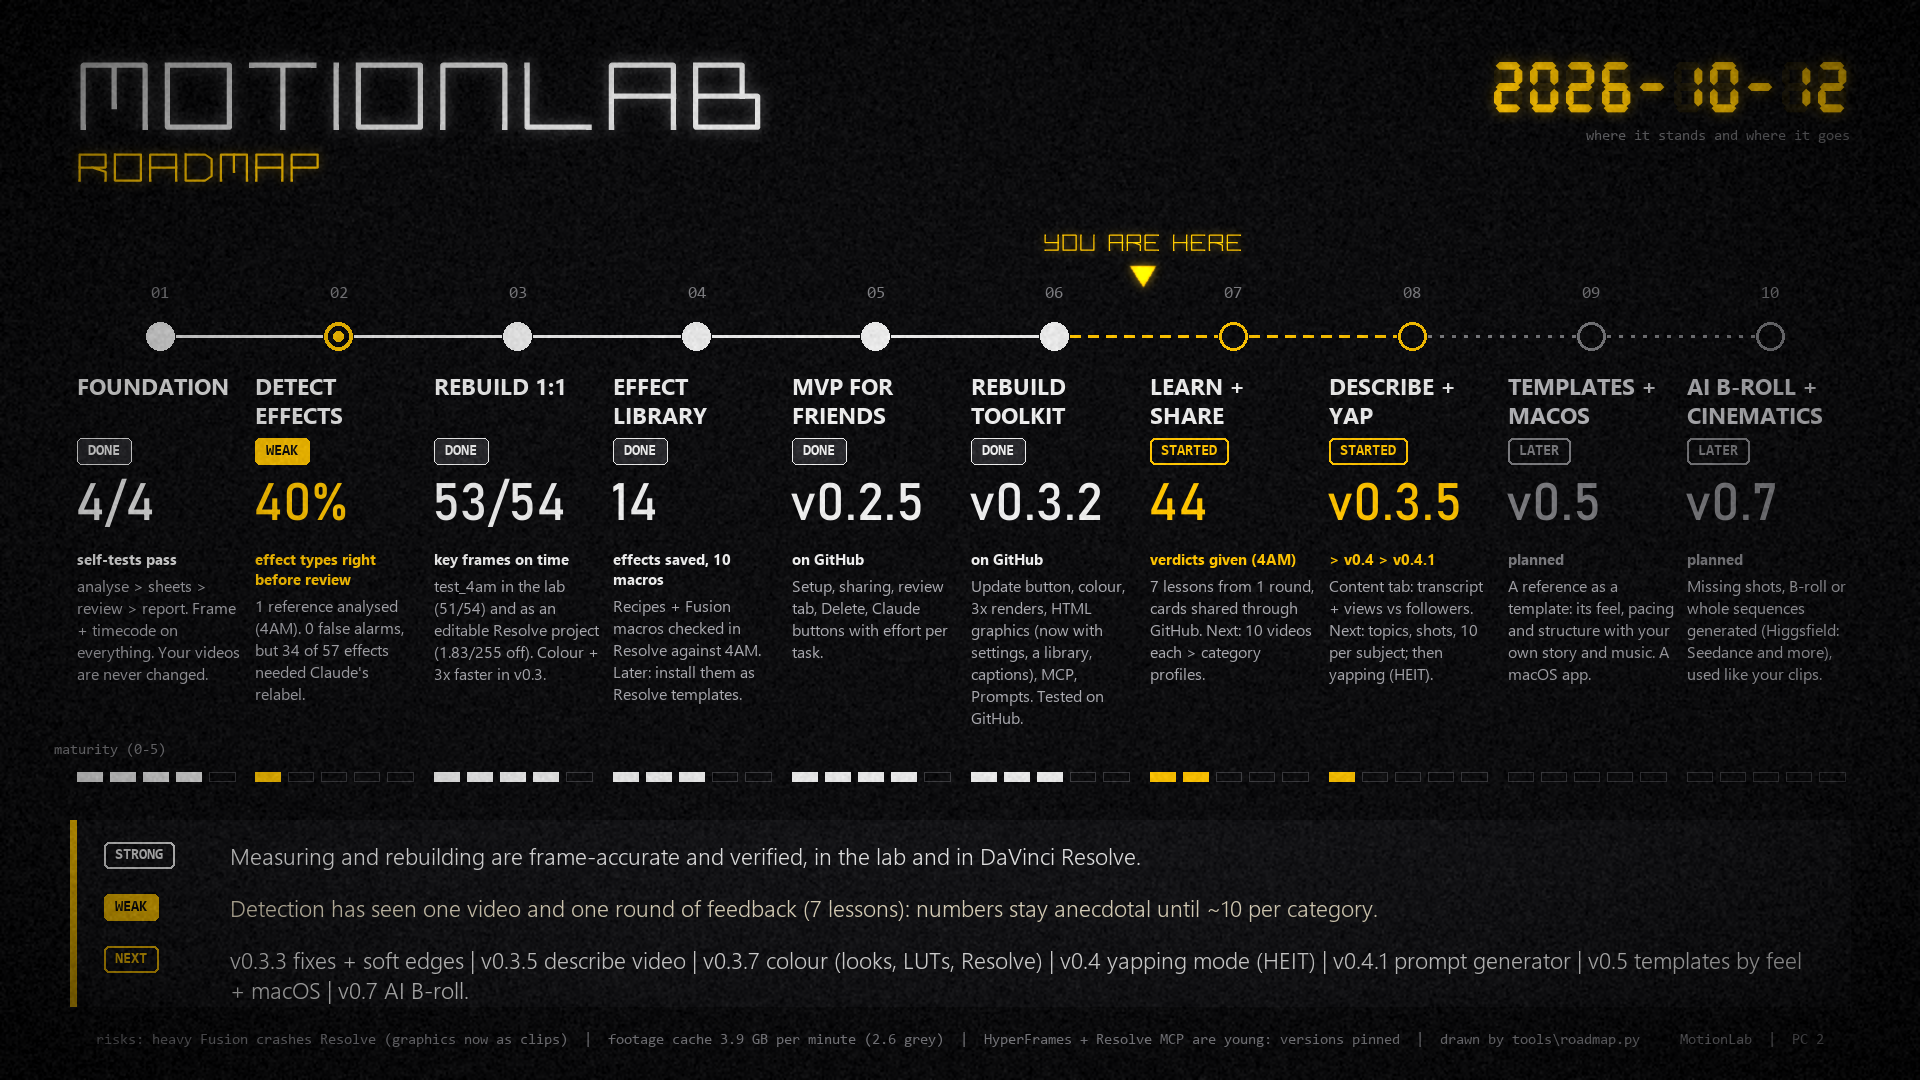
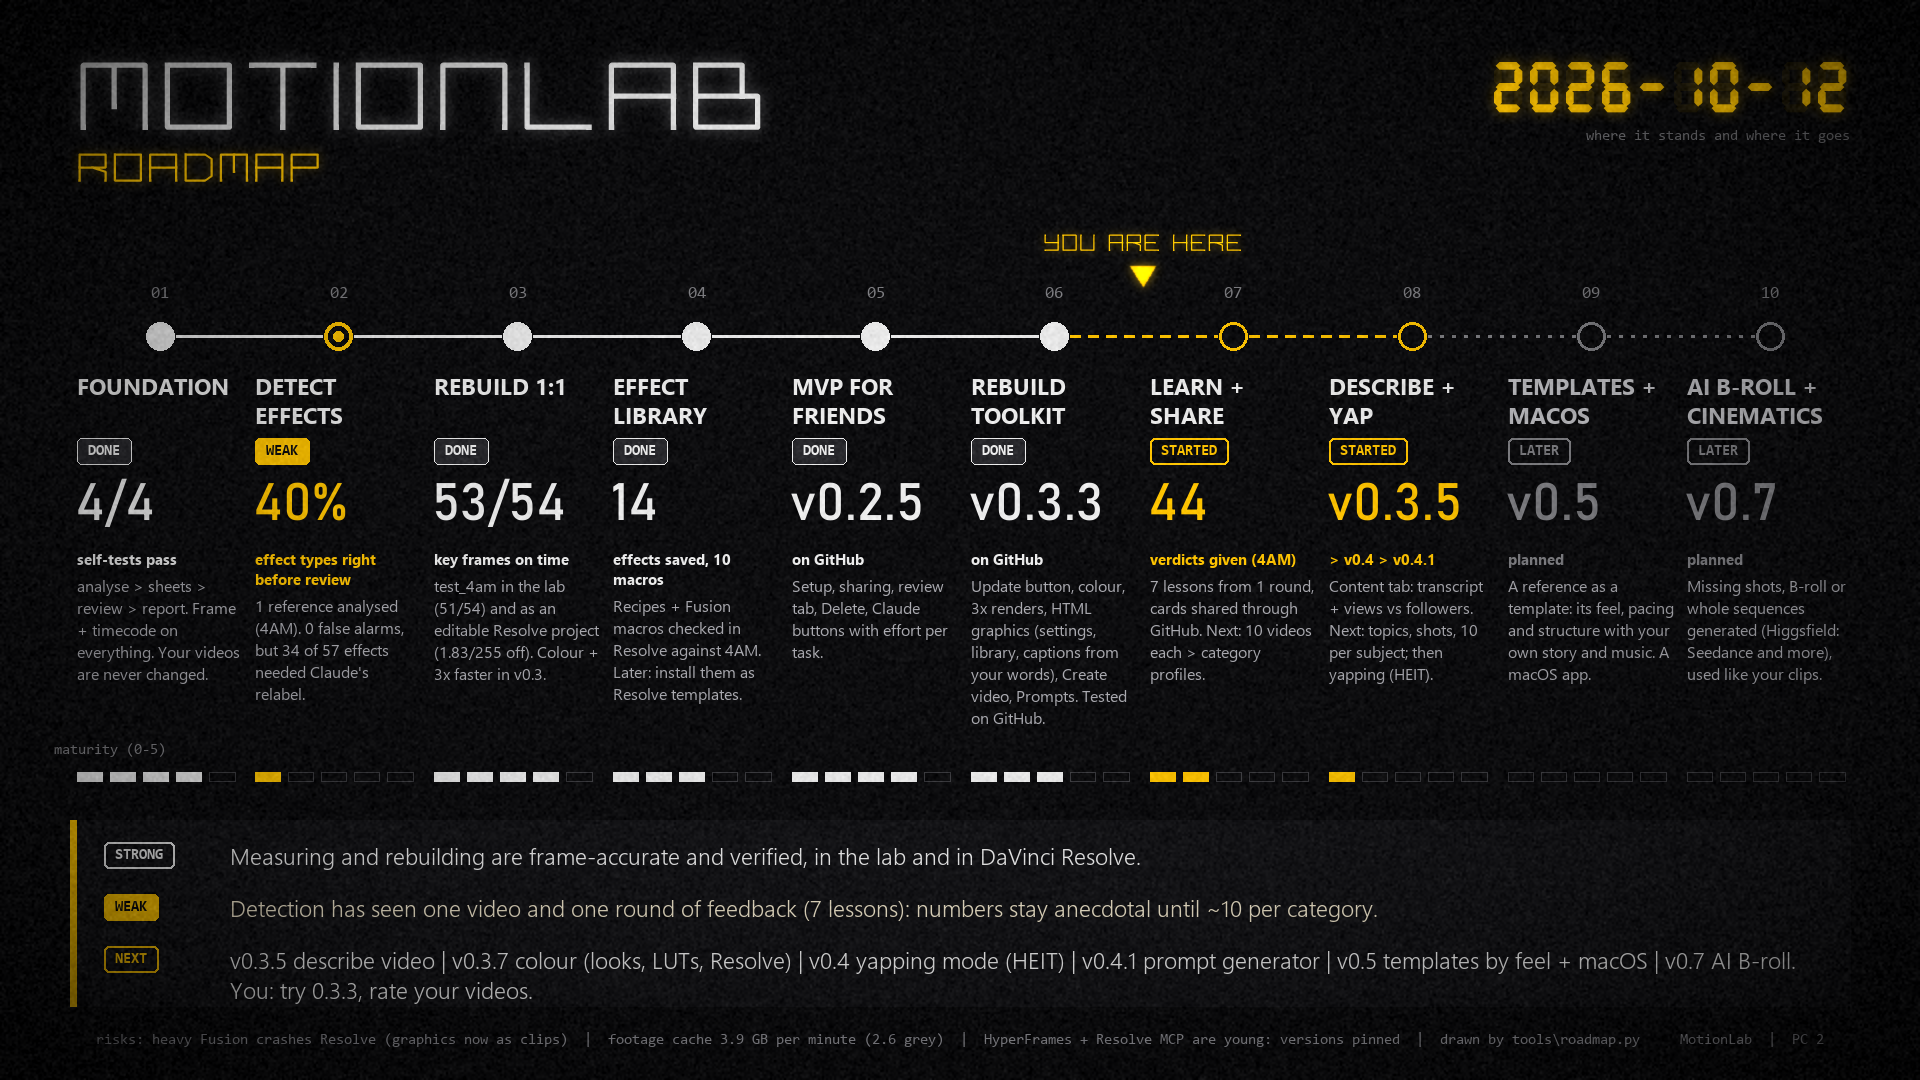
MotionLab 0.3.3: fixes, Create video, captions from your own words, a livelier app
CHANGELOG 0.3.3 = everything since 0.3.2: speech to text (23e93b6), the talking-head graphics pack (f590933),
odd titles (d95fbf4), downloads + Add prompts (2c14713), the app batch (c381ec8). __version__ 0.3.3 (API_LEVEL 9
since c381ec8). plans.md: the 0.3.3 section is out (released), its open download items carry over to 0.3.5, a
structure per purpose goes to 0.4.1; README status, roadmap redrawn.

Claude-Session: https://claude.ai/code/session_011AokhQ9fRekBE9LX8Mo4QJ

Changed region(s): [[0.125, 0.8861, 0.9375, 0.9472], [0.5, 0.5806, 0.5938, 0.6722], [0.5625, 0.4583, 0.5938, 0.4889]]

diff --git a/tools/roadmap.py b/tools/roadmap.py
@@ -37,9 +37,9 @@ STAGES = [
      "Recipes + Fusion macros checked in Resolve against 4AM. Later: install them as Resolve templates."),
     ("MVP for friends", "DONE", 4, "v0.2.5", "on GitHub",
      "Setup, sharing, review tab, Delete, Claude buttons with effort per task."),
-    ("Rebuild toolkit", "DONE", 3, "v0.3.2", "on GitHub",
-     "Update button, colour, 3x renders, HTML graphics (now with settings, a library, captions), MCP, Prompts. "
-     "Tested on GitHub."),
+    ("Rebuild toolkit", "DONE", 3, "v0.3.3", "on GitHub",
+     "Update button, colour, 3x renders, HTML graphics (settings, library, captions from your words), Create video, "
+     "Prompts. Tested on GitHub."),
     ("Learn + share", "STARTED", 2, "44", "verdicts given (4AM)",
      "7 lessons from 1 round, cards shared through GitHub. Next: 10 videos each > category profiles."),
     ("Describe + yap", "STARTED", 1, "v0.3.5", "> v0.4 > v0.4.1",
@@ -53,8 +53,8 @@ VERDICT = [
     ("STRONG", "Measuring and rebuilding are frame-accurate and verified, in the lab and in DaVinci Resolve."),
     ("WEAK", "Detection has seen one video and one round of feedback (7 lessons): numbers stay anecdotal until ~10 "
              "per category."),
-    ("NEXT", "v0.3.3 fixes + soft edges  |  v0.3.5 describe video  |  v0.3.7 colour (looks, LUTs, Resolve)  |  v0.4 "
-             "yapping mode (HEIT)  |  v0.4.1 prompt generator  |  v0.5 templates by feel + macOS  |  v0.7 AI B-roll."),
+    ("NEXT", "v0.3.5 describe video  |  v0.3.7 colour (looks, LUTs, Resolve)  |  v0.4 yapping mode (HEIT)  |  v0.4.1 "
+             "prompt generator  |  v0.5 templates by feel + macOS  |  v0.7 AI B-roll.  You: try 0.3.3, rate your videos."),
 ]
 FOOTER = ("risks: heavy Fusion crashes Resolve (graphics now as clips)  |  footage cache 3.9 GB per minute (2.6 grey)  "
           "|  HyperFrames + Resolve MCP are young: versions pinned  |  drawn by tools\\roadmap.py")

diff --git a/tools/motionlab/__init__.py b/tools/motionlab/__init__.py
@@ -1,2 +1,2 @@
 """MotionLab analysis package (see tools/analyze.py for the entry point)."""
-__version__ = "0.3.2"
+__version__ = "0.3.3"

diff --git a/docs/plans.md b/docs/plans.md
@@ -70,6 +70,10 @@ prompts we have given and you have analysed structurally so we can generate good
   - **Filled by the analyses**: the first 3 s of every analysed talking video become hook examples, its HEIT
     structure a script example (0.3.5 / 0.4), with the link and frame + timecode.
   - **Sharing** your own prompts and ratings through *Knowledge > Share* (text); creators' prompts stay on the PC.
+  - **A structure per purpose** (2026-10-12: "a vlog prompt differs from a talking head, SFX, transitions..."):
+    0.3.3 gave prompts their purposes (tags) and videos a "how did it turn out?" per part (`build\outcome.json`,
+    shown on the prompt as "Used in"); learn from those answers which structure works per purpose - needs a few
+    made videos rated first.
 - **Needs**: your prompts (the Prompts page or pasted in the chat).
 
 ## 0.4.0 - planned - Yapping mode: the yap-maxing framework
@@ -113,7 +117,7 @@ talking-head creators AND edit the user's own recording that way.)
   the extras' numbers on them; (3) the yapping detectors + self-tests; (4) brief + the edit of your own recording.
 - **Needs first**: 0.3.5 (describe video, incl. the words of your own recordings for captions).
 - **Started 2026-10-12** (the user asked for "minimal motion graphics for a good content creator talking head
-  video"; not released): `tools\overlays\examples\talking-head-pack` - progress bar, hook title, number pop-ups
+  video"; released in 0.3.3): `tools\overlays\examples\talking-head-pack` - progress bar, hook title, number pop-ups
   (a counter for numbers that count up), a numbered list built point by point, an end card; the look = settings
   (accent, text colour, font, size, height on screen, progress bar, panel opacity), WHAT shows WHEN =
   `assets\beats.js` (texts + frames, written from the transcript - Claude's part in yapping mode).
@@ -175,7 +179,7 @@ right - base with a prompt dropped a whole paragraph); Parakeet (HyperFrames, `m
 5 s here, ~20 CPU-seconds, 1.15 GB RAM, 25 European languages, no names prompt) 26.1 %. HyperFrames' whisper
 engine needs whisper.cpp built by hand on Windows - out. Word starts agree within 0.02-0.12 s (median) between
 engines. Names are what every engine gets wrong without help.
-**Decided + built 2026-10-12** (the user picked faster-whisper small, base as the light option; not released):
+**Decided + built 2026-10-12** (the user picked faster-whisper small, base as the light option; released in 0.3.3):
 `motionlab\speech.py` + `tools\speech.py install | status | transcribe` (optional: Settings > Programs > Speech to
 text > Install = the pinned faster-whisper 1.2.1 in the lab's venv + the small model; names via --names / the
 dialog, ignored by base); `overlay.py captions --from <a video>` (size / rate / length from the plan or the video -
@@ -184,6 +188,17 @@ video (a render of the edit or a clip) or from a subtitle file. Measured on the 
 14.5 s, captions at 1080 x 1920, 30 fps, 2159 frames (UI test 9/9). Still open here: references without subtitles
 (content.py transcript falling back to speech), Parakeet as a later option. Also: the SRT onto
 Resolve's subtitle track by script (test in the scratch project); the HTML clock's grain tuned to the lab's texture.
+
+**Carried over from 0.3.3** (released 2026-10-12, see CHANGELOG.md; found in the download review, the user decides):
+- Logins: Instagram (often), Vimeo (now always) and YouTube's bot check (seen once here: HTTP 429 + "Sign in to
+  confirm you're not a bot") need the user's browser login. yt-dlp can read it (`--cookies-from-browser firefox`;
+  Chrome / Edge lock and encrypt their cookies). It is the user's login: a setting only with their OK.
+- HEVC (TikTok's best format) plays in the app only where Windows has the HEVC Video Extension (this PC has it): a
+  small H.264 copy for the player when it is missing.
+- yt-dlp out of date breaks TikTok / Instagram first: its age in Settings + an *Update yt-dlp* button (`yt-dlp -U`;
+  winget copies: `winget upgrade yt-dlp.yt-dlp`). Recent yt-dlp uses a JavaScript runtime (deno) for YouTube -
+  installed here; Settings could check for it.
+- Instagram carousels / TikTok photo posts give several files or sound only; the app records only the last file.
 
 **The user's notes (2026-10-09, again 2026-10-12):** "describe video: instead of focusing on our already existing
 analyze video for effects, transitions and pacing, we focus on analysing videos informatively (the content inside
@@ -237,40 +252,3 @@ of 2026-10-12: it is the base tool of 0.4's yapping mode.
   - Other engines seen 2026-10-09: HyperFrames (in `tools\overlays\`, optional, needs Node) has a whisper.cpp
     `transcribe` command; ffmpeg's `whisper` filter is in BtbN builds but NOT in Gyan's essentials build (CI's; winget's
     full build: unchecked).
-
-## 0.3.3 - planned - Fixes and soft edges: titles, downloads, prompts, the app's layout
-
-**The user's notes (2026-10-12):** "lets do a little step back and focus on bugs and fixing some soft edges focusing
-on the entire workflow", then "continue with the v0.3.3 bug oriented version". On GitHub as they are done; listed in
-CHANGELOG.md `## Unreleased` until 0.3.3 ships.
-
-- **Done - odd titles** (a friend's report): "..." in a title made an analysis no page opened (folders renamed at
-  start: `util.fix_dotted_names`); an emoji made a saved download "fail" (yt-dlp `--encoding utf-8`, the file found
-  by its `[id]`). Regression checks: `selftest.py` `check_titles`.
-- **Done - downloads from other sites** (reviewed with yt-dlp 2026.08.19): 1080p = the short side (a vertical TikTok
-  came at 576x1024 although 720x1280 was there; 1080x1920 Reels / Shorts were capped at 608x1080), then the highest
-  frame rate, then H.264 + AAC; a link without video (SoundCloud) is refused clearly instead of putting a sound file
-  in refs\; yt-dlp's errors in words (no video, blocked / bot check, login, unknown link, ffmpeg missing, outdated).
-- **Done - adding prompts**: *Add prompts* takes any text or files (.txt / .md / .docx read by the app; a PDF goes
-  to Claude), the kind guessed (28 of the 29 saved prompts right), *Let Claude sort it* for a guide (`/write-prompt
-  import`), Claude reviews and splits afterwards; `prompts.py kind` fixes a wrong kind. The old format still works.
-- **Done - asked 2026-10-12**: Delete for prompts (Recycle Bin); what a prompt is for (its tags: purpose chips +
-  search on the page, *For: Edit*) and *Use it, change…* (`/write-prompt <kind> like <id> - change: ...`); *Create
-  video* on the Videos page (a reference or a prompt -> your clips / a new folder -> `/recreate-video <ref> <p>` or
-  `prompt:<id> <p>`, recorded in `build\made_from.json`); "How did it turn out?" per part (sound, SFX, colour,
-  captions, motion graphics, effects, pacing, overall) -> `build\outcome.json`, read by Claude
-  (`/recreate-video improve <p>`) and shown on the prompt it came from; the sidebar regrouped (Home, Videos | Media:
-  References, Prompts | Additional: Library, Knowledge | Tools: Jobs, Settings - Storage is a Settings tab); a colour
-  per section, softer cards, dialogs that pop in (CSS only). UI test 16/16 in headless Edge.
-- **Next for prompts (0.4.1)**: a structure per purpose (a vlog prompt is built differently from a talking-head, SFX
-  or transition prompt) learned from the "how did it turn out?" answers - needs a few made videos rated first.
-- **Open - found in the review, the user decides**:
-  - Logins: Instagram (often), Vimeo (now always) and YouTube's bot check (seen once here: HTTP 429 + "Sign in to
-    confirm you're not a bot") need the user's browser login. yt-dlp can read it (`--cookies-from-browser firefox`;
-    Chrome / Edge lock and encrypt their cookies). It is the user's login: a setting only with their OK.
-  - HEVC (TikTok's best format) plays in the app only where Windows has the HEVC Video Extension (this PC has it): a
-    small H.264 copy for the player when it is missing.
-  - yt-dlp out of date breaks TikTok / Instagram first: its age in Settings + an *Update yt-dlp* button (`yt-dlp -U`;
-    winget copies: `winget upgrade yt-dlp.yt-dlp`). Recent yt-dlp uses a JavaScript runtime (deno) for YouTube -
-    installed here; Settings could check for it.
-  - Instagram carousels / TikTok photo posts give several files or sound only; the app records only the last file.

diff --git a/CHANGELOG.md b/CHANGELOG.md
@@ -4,8 +4,16 @@ What changed in each version of MotionLab, newest first. When a new version is o
 **Update available** button in the sidebar; it opens the sections below that are newer than your copy.
 Version numbers: `0.x.0` adds features, `0.x.y` fixes things.
 
-## Unreleased
+## 0.3.3 - 2026-10-12 - Fixes, Create video, captions from your own words, a livelier app
 
+- **Captions from your own recordings** (*Videos > your video > Graphics > Captions...*): pick a video and MotionLab
+  writes down what is said - on your PC, nothing uploaded - and makes the captions from it, timed to the words.
+  Install it once in *Settings > Programs > Speech to text* (about 460 MB; *base* is a lighter choice for slow
+  laptops). Give it the names in your video (your channel, songs, products) and it spells them right. Phone videos
+  filmed upright come out upright.
+- **A talking-head graphics pack** (*Library > Graphics*): a progress bar, a hook title, numbers that pop up (and
+  count up) the moment you say them, a list that builds point by point, and an end card - all in a band clear of
+  your face. Colour, font, size, height and opacity are settings; it fits any video size.
 - **Fixed: videos with odd titles** (reported by a friend): a video whose title was cut short with "..." (TikTok
   hashtags) was analysed, but its page never opened ("bad name"). Such analyses are renamed when MotionLab starts,
   and new ones never get "..". *Download from a link* also said "download failed" for a title with an emoji (🎬),

diff --git a/README.md b/README.md
@@ -7,11 +7,12 @@
 **A local lab that takes apart the editing of any video - every cut, flash, zoom, speed ramp, split screen, text
 pop and transition, frame-accurately - so you can learn its style and pacing and rebuild it with your own footage.**
 
-> **Status: v0.3.2 - rebuild toolkit** ([what's new](CHANGELOG.md)): colour rebuilds, 3x faster renders, graphics
+> **Status: v0.3.3 - rebuild toolkit** ([what's new](CHANGELOG.md)): colour rebuilds, 3x faster renders, graphics
 > written as HTML, Claude Code connected to the lab and to DaVinci Resolve, and updates that only offer versions
-> GitHub's automatic tests passed. New in 0.3.2: graphics you edit in the app (text, colours, timing), a graphics
-> library, captions timed to the words, graphics tested inside DaVinci Resolve (swap in place), a *Content* tab
-> (transcript, views vs followers) and *Check for updates*. Since 0.3.1: a *Prompts* page.
+> GitHub's automatic tests passed. New in 0.3.3: *Create video* from a reference or a prompt, "how did it turn out?"
+> per part, captions from your own recordings (speech to text), a talking-head graphics pack, prompts added as any
+> text or file, vertical downloads in full size, and a regrouped, livelier app. 0.3.2: graphics you edit in the
+> app, a graphics library, captions, graphics inside DaVinci Resolve, a *Content* tab and *Check for updates*.
 > Detection was tuned on music videos; other categories work and get better with every verdict you give.
 
 ## Contents

diff --git a/CLAUDE.md b/CLAUDE.md
@@ -64,7 +64,7 @@ Every tool starts with a usage docstring: read its first lines (or run it withou
 - `.app\` the app's cache and logs (`server.log`, `deleted.log`, `jobs\`, `open_claude.cmd`, `server.json`);
   `settings.json` = the user's app settings; `.claude\skills\` = `analyze-reference\` (+ `lessons.md`),
   `recreate-video\`, `write-prompt\`, `whats-next\`
-- Repo files (v0.3.2): `README.md`, `setup.bat`, `LICENSE` (MIT), `CHANGELOG.md` (the Update button's dialog shows
+- Repo files (v0.3.3): `README.md`, `setup.bat`, `LICENSE` (MIT), `CHANGELOG.md` (the Update button's dialog shows
   it), `.mcp.json` (MotionLab's MCP server), `.github\workflows\tests.yml` (GitHub's tests, see Publishing),
   `.gitignore` (refs, analysis, projects, library, settings.json, .app, .venv, knowledge\local|inbox|outbox and the
   self-test videos stay private), `.gitattributes` (LF in the repo, `.bat` always CRLF), `MotionLab.ico`. The
